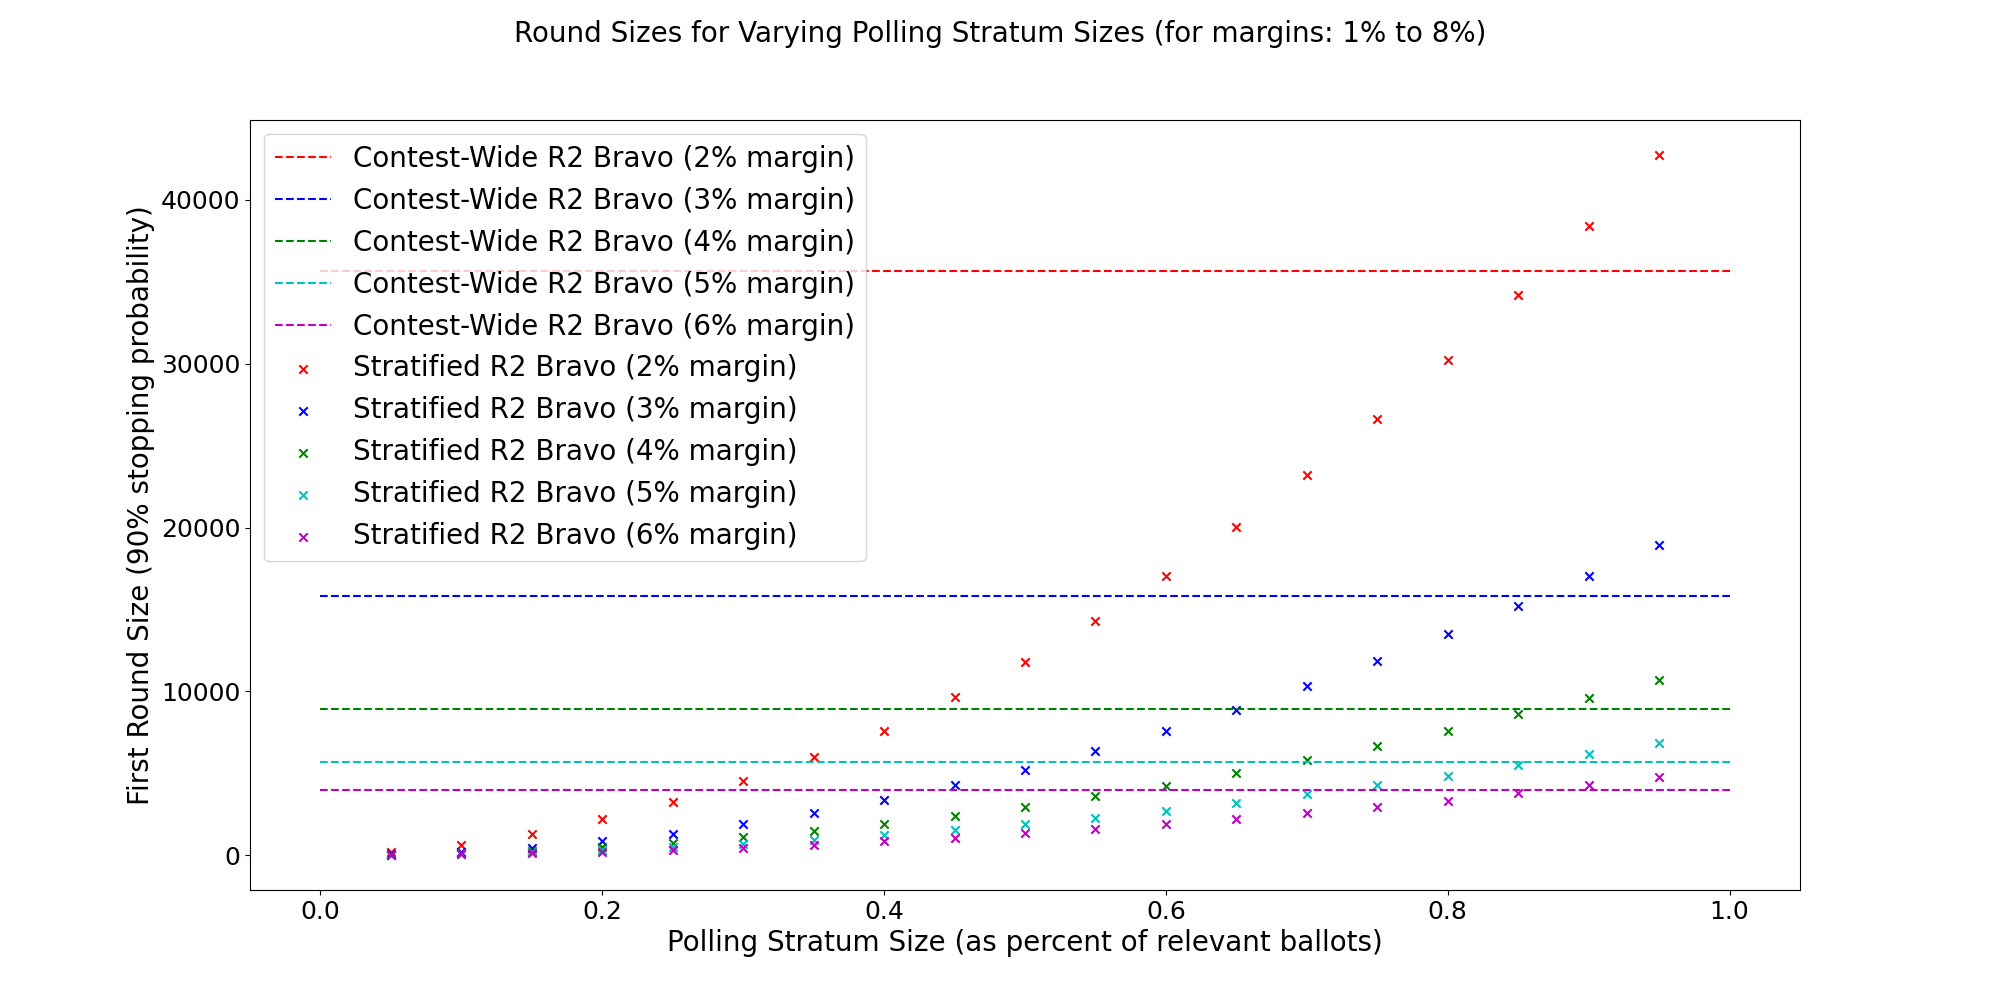
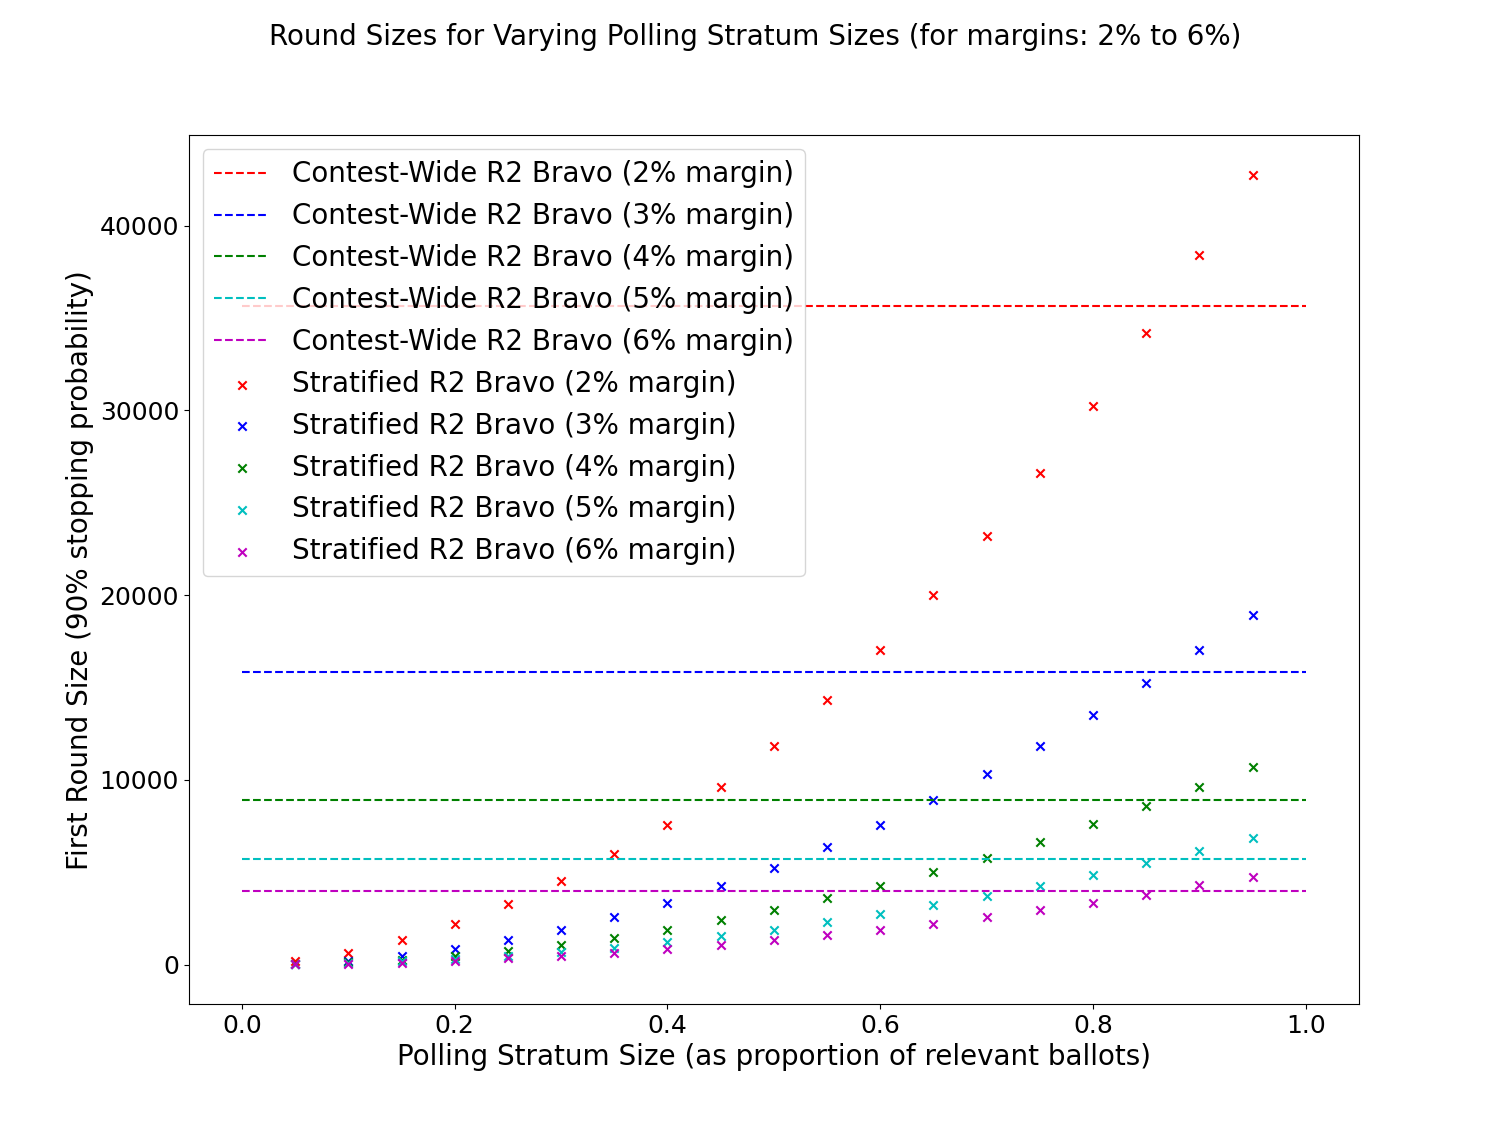
percent to proportion on plots for many margins

diff --git a/plot_data_multiple.py b/plot_data_multiple.py
@@ -14,7 +14,7 @@ import matplotlib.pyplot as plt
 
 # begin plot
 fig = plt.figure(figsize=(20,10))
-fig.suptitle('Round Sizes for Varying Polling Stratum Sizes (for margins: 1% to 8%)', fontsize=20)
+fig.suptitle('Round Sizes for Varying Polling Stratum Sizes (for margins: 2% to 6%)', fontsize=20)
 ax = fig.add_subplot(111)#numrows, numcols, num of subplot being referenced
 
 # array of data files to be plotted
@@ -68,7 +68,7 @@ for margin, color in zip(range(2,7), ['r','b','g','c','m']):
     ax.plot([0,1],[r2bravo_round_size_no_stratification,r2bravo_round_size_no_stratification], label='Contest-Wide R2 Bravo ('+str(margin)+'% margin)', linestyle='dashed',color=color)
 
 # add labels and adjust font sizes, then show
-ax.set_xlabel('Polling Stratum Size (as percent of relevant ballots)', fontsize=20)
+ax.set_xlabel('Polling Stratum Size (as proportion of relevant ballots)', fontsize=20)
 ax.set_ylabel('First Round Size (90% stopping probability)', fontsize=20)
 plt.legend(loc='upper left', fontsize=20)
 plt.setp(ax.get_xticklabels(), fontsize=18)
